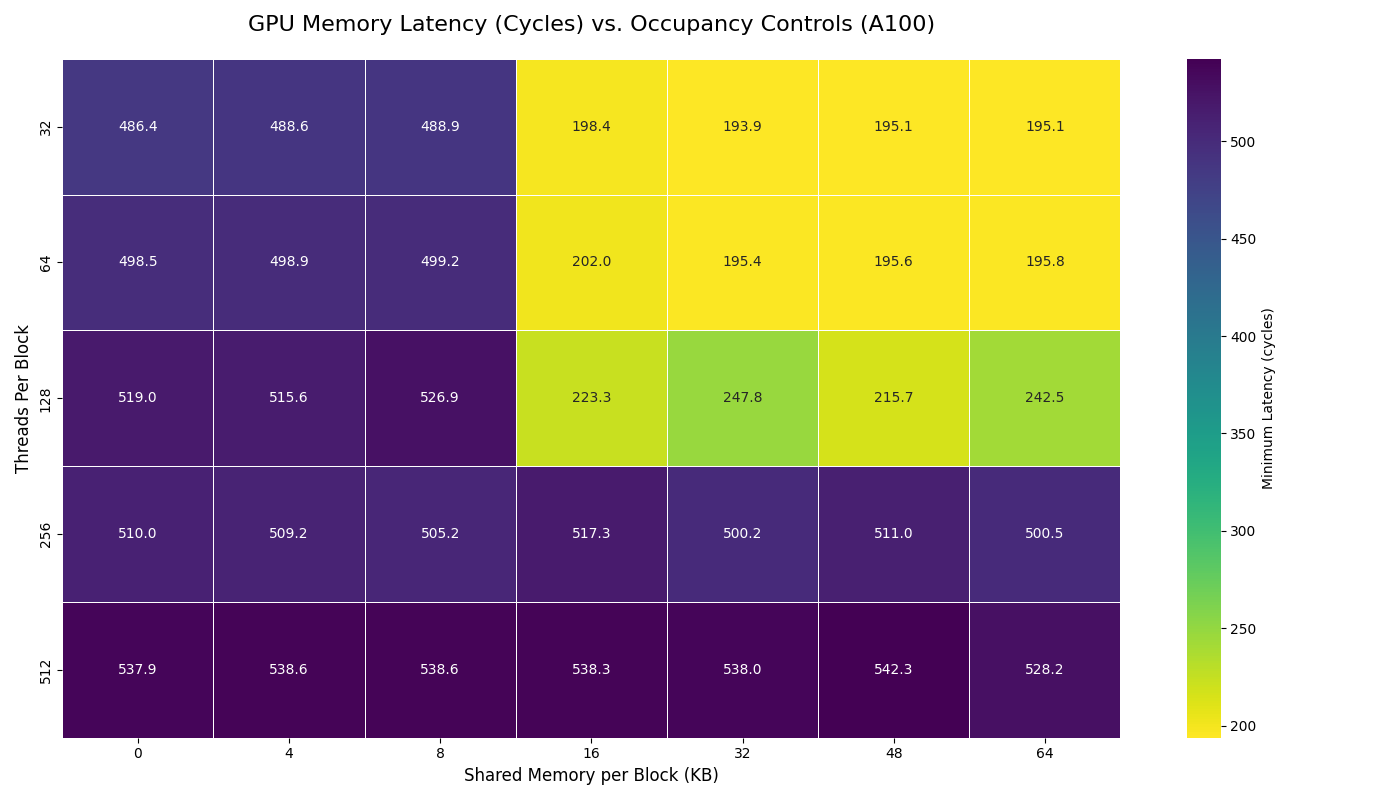
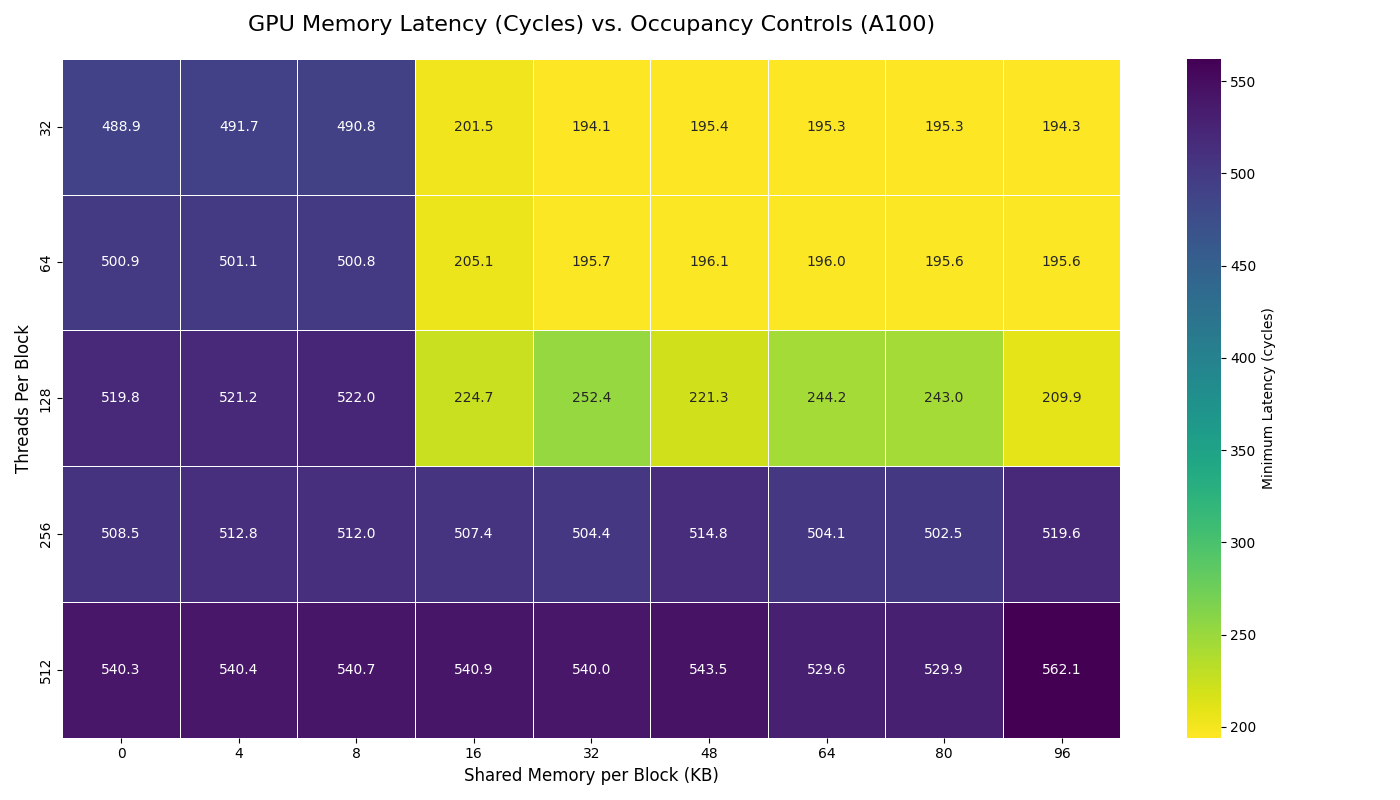
upgrade

diff --git a/Results/H100/Latency/plot.py b/Results/H100/Latency/plot.py
@@ -1,0 +1,87 @@
+import pandas as pd
+import seaborn as sns
+import matplotlib.pyplot as plt
+import os
+
+# --- Configuration ---
+CSV_FILE = 'Results/H100/Latency/latency_summary.csv'
+OUTPUT_IMAGE = 'Results/H100/Latency/latency_heatmap.png'
+PLOT_TITLE = 'GPU Memory Latency (Cycles) vs. Occupancy Controls (H100)'
+# --- End Configuration ---
+
+def create_plot():
+    print(f"Reading data from {CSV_FILE}...")
+    if not os.path.exists(CSV_FILE):
+        print(f"Error: File not found at {CSV_FILE}")
+        print("Please run the ./run_memory_latency.sh script first.")
+        return
+
+    # Read the CSV data
+    try:
+        df = pd.read_csv(CSV_FILE)
+    except pd.errors.EmptyDataError:
+        print(f"Error: {CSV_FILE} is empty. No data to plot.")
+        return
+
+    # Clean the data:
+    # 1. Remove any 'FAIL' rows
+    df = df[df['MinLatency_cycles'].astype(str).str.lower() != 'fail']
+    # 2. Convert columns to numeric types
+    df['ThreadsPerBlock'] = pd.to_numeric(df['ThreadsPerBlock'])
+    df['Shmem_KB'] = pd.to_numeric(df['Shmem_KB'])
+    df['MinLatency_cycles'] = pd.to_numeric(df['MinLatency_cycles'])
+
+    if df.empty:
+        print("Error: No valid data found after cleaning.")
+        return
+
+    # Find the minimum latency
+    min_lat = df['MinLatency_cycles'].min()
+    print(f"Minimum (unloaded) latency found in data: {min_lat:.2f} cycles")
+
+    # Pivot the data into a 2D grid for the heatmap
+    # 'ThreadsPerBlock' will be the rows (y-axis)
+    # 'Shmem_KB' will be the columns (x-axis)
+    # 'MinLatency_cycles' will be the cell values
+    try:
+        pivot_table = df.pivot(
+            index='ThreadsPerBlock', 
+            columns='Shmem_KB', 
+            values='MinLatency_cycles'
+        )
+    except ValueError as e:
+        print(f"Error pivoting data: {e}")
+        print("This can happen if you have duplicate (TPB, Shmem_KB) entries.")
+        return
+
+    # Create the plot
+    plt.figure(figsize=(14, 8))
+    
+    # Draw the heatmap
+    # annot=True writes the latency value in each cell
+    # fmt='.1f' formats the value to one decimal place
+    ax = sns.heatmap(
+        pivot_table, 
+        annot=True, 
+        fmt=".1f", 
+        cmap="viridis_r",  # '_r' reverses the colormap (blue=low, yellow=high)
+        linewidths=.5,
+        cbar_kws={'label': 'Minimum Latency (cycles)'} # Color bar label
+    )
+    
+    # Set titles and labels
+    ax.set_title(PLOT_TITLE, fontsize=16, pad=20)
+    ax.set_xlabel("Shared Memory per Block (KB)", fontsize=12)
+    ax.set_ylabel("Threads Per Block", fontsize=12)
+    
+    # Invert y-axis to have smaller TPB at the bottom (optional, but common)
+    # ax.invert_yaxis() 
+
+    # Save the plot
+    plt.tight_layout()
+    plt.savefig(OUTPUT_IMAGE)
+    
+    print(f"\nSuccess! Plot saved to {OUTPUT_IMAGE}")
+
+if __name__ == "__main__":
+    create_plot()
